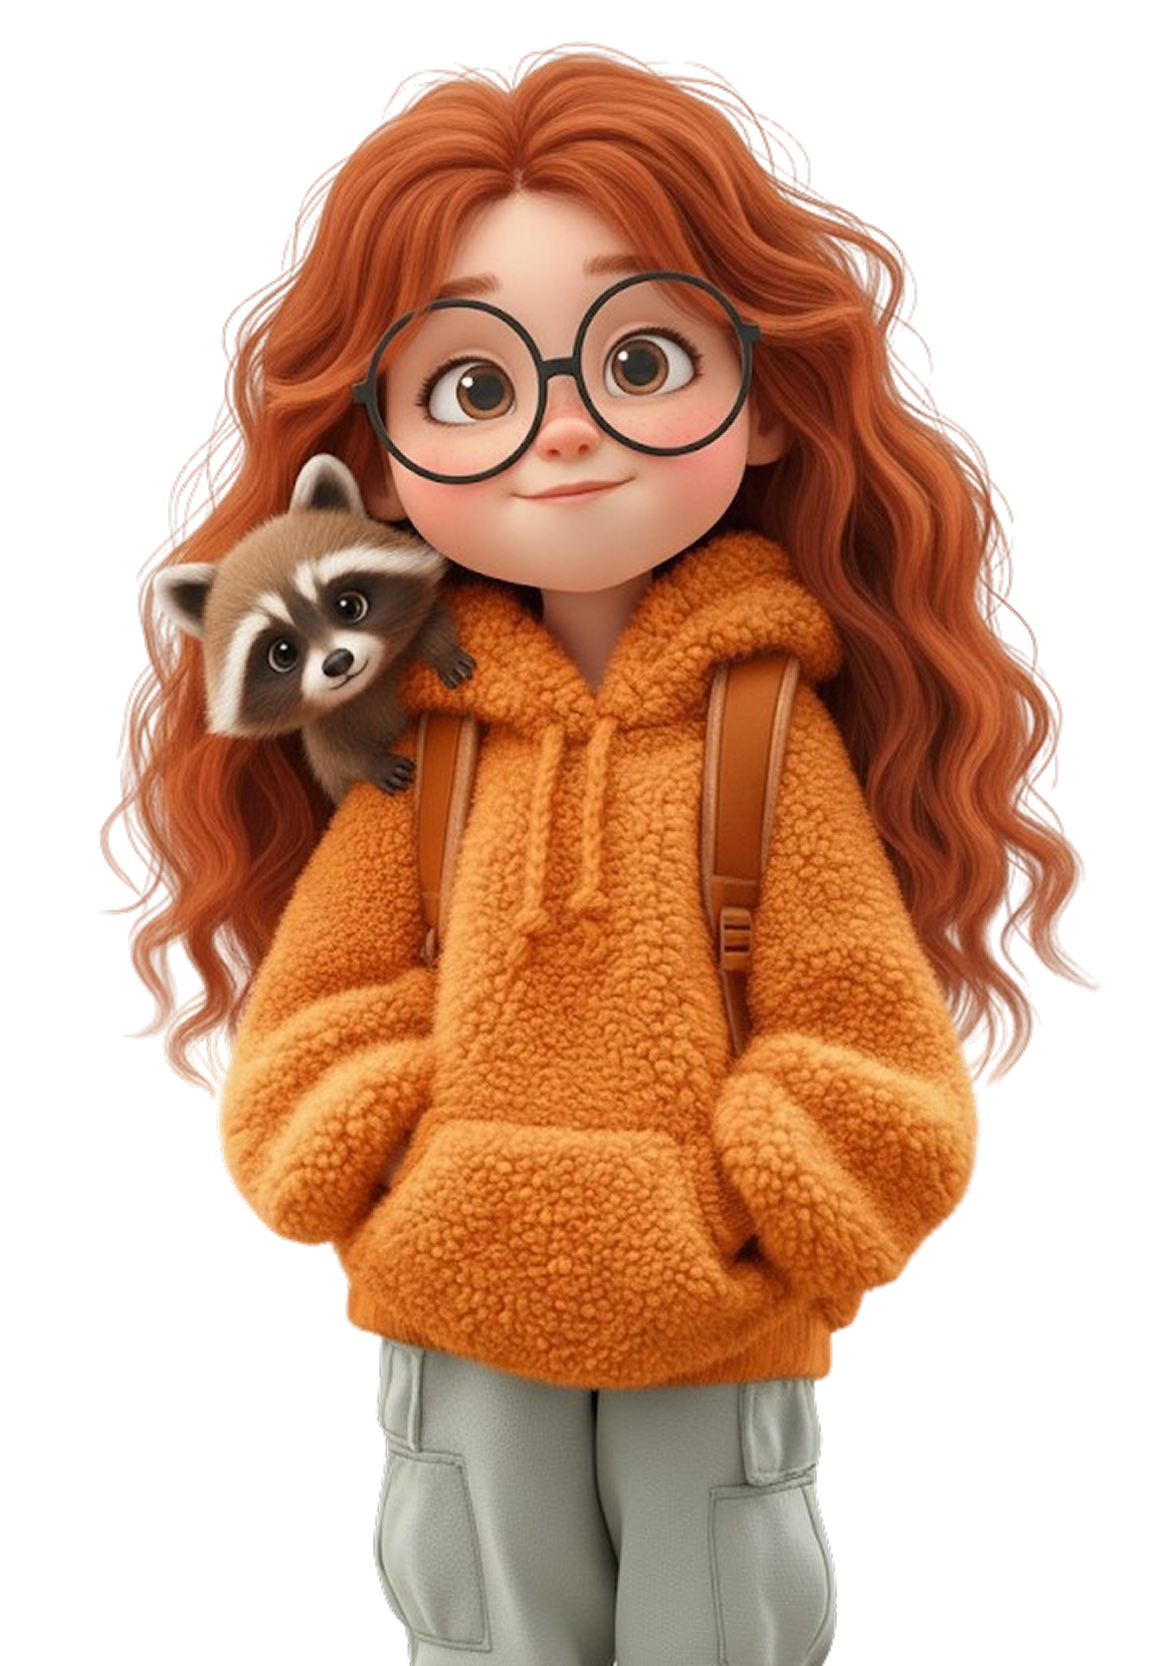
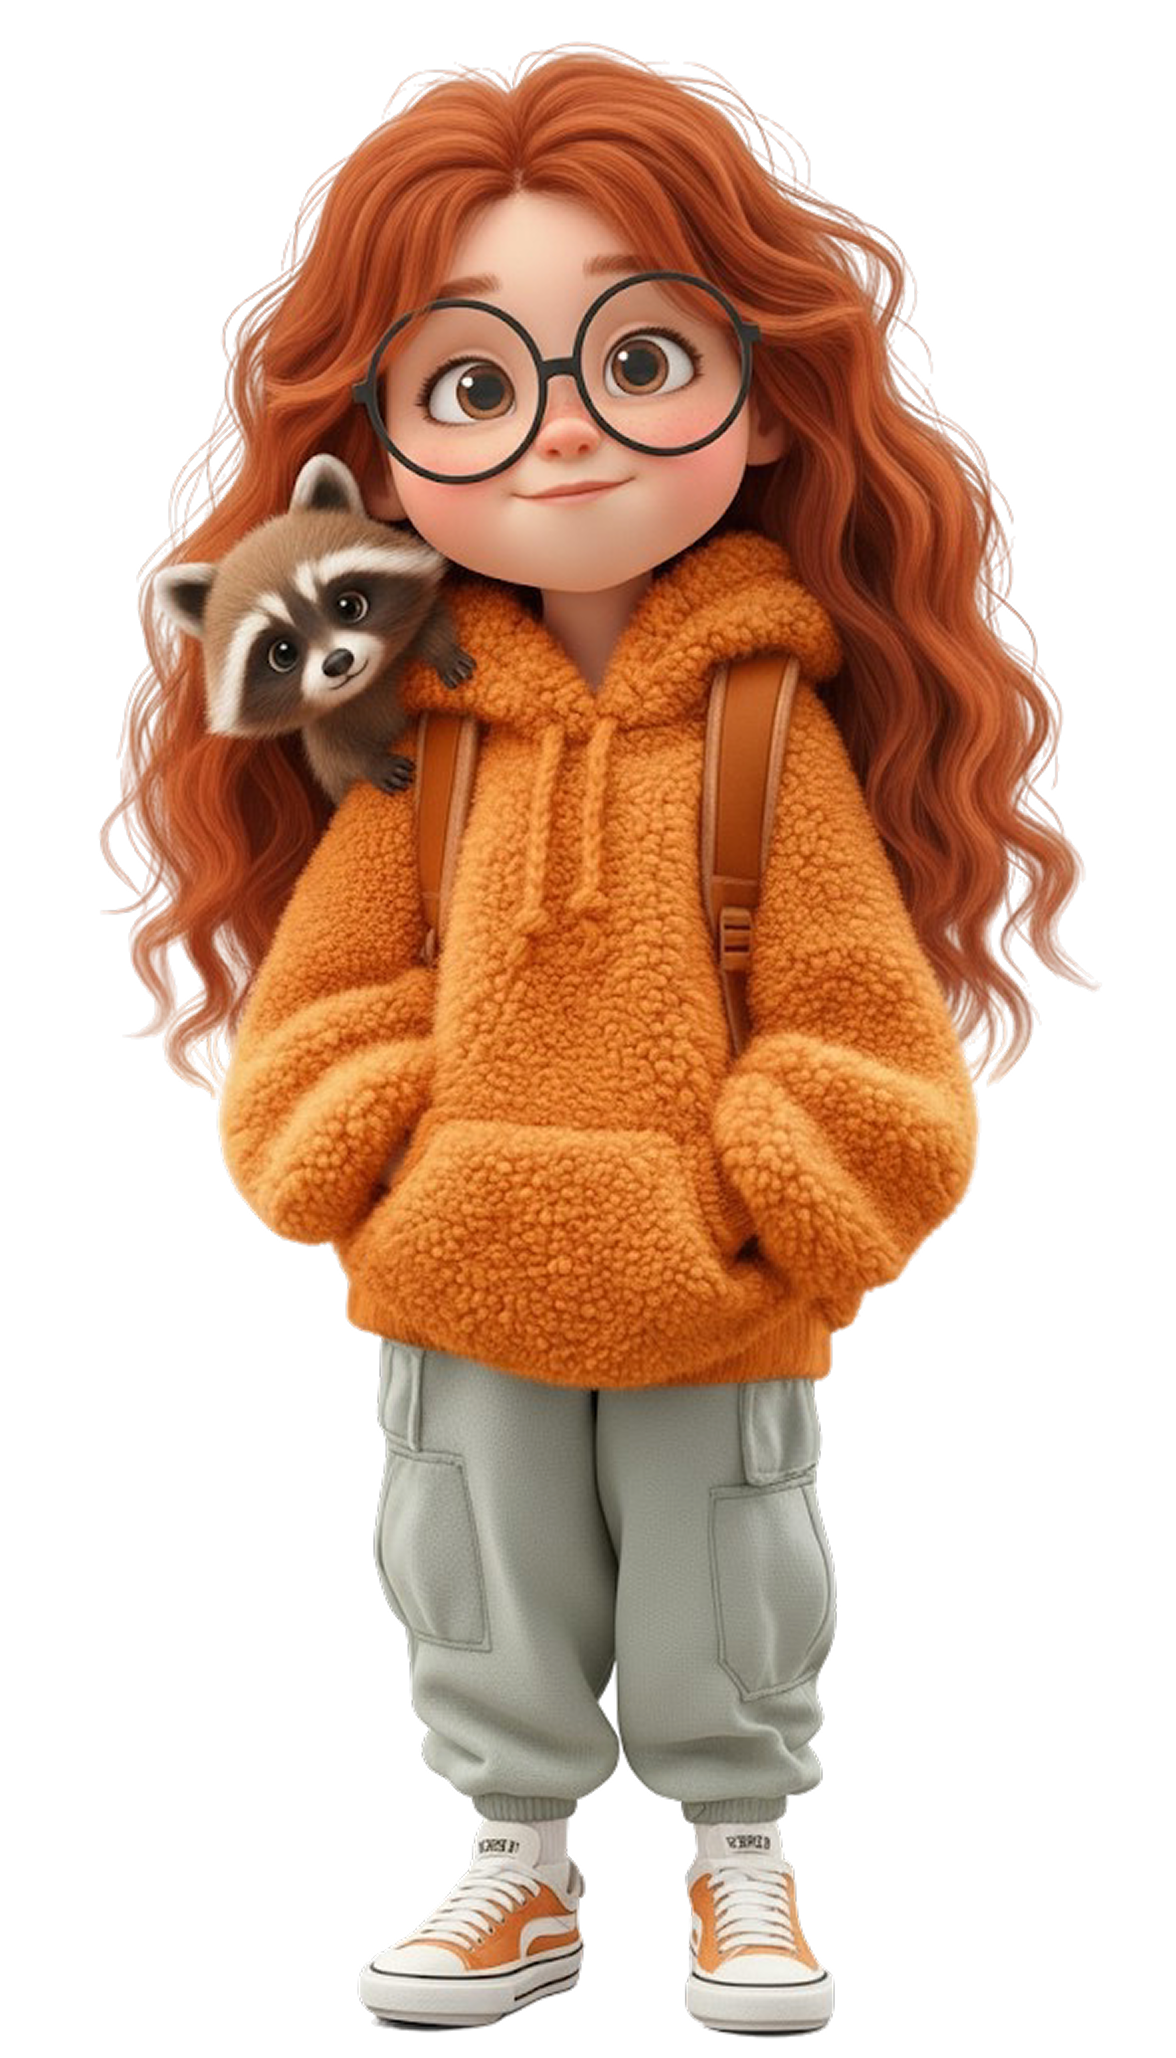
end JourneyCard

diff --git a/src/app/play-zone/components/journeyCard/JourneyCard.tsx b/src/app/play-zone/components/journeyCard/JourneyCard.tsx
@@ -5,8 +5,9 @@ import LastAchievement from "../lastAchievement/LastAchievement";
 
 import LevelInfo from "../levelInfo/LevelInfo";
 
-import achievementImage from "@images/home/achievement.png";
+import achievementImage from "@images/home/achievement.svg?url";
 import totalScoreLineUrl from "@images/home/total.svg?url";
+import girlImage from "@images/home/girl.png";
 
 import styles from "./journeyCard.module.scss";
 
@@ -14,7 +15,7 @@ export default function JourneyCard() {
   return (
     <div className={styles.journeyCard}>
       <div className={styles.achievement}>
-        <Image src={achievementImage} alt="achievement" width={100} height={100} style={{ width: "100%", height: "auto" }} />
+        <Image src={achievementImage} alt="achievement" width={100} height={100} style={{ width: "100%", height: "auto" }} unoptimized />
       </div>
       <LevelInfo level={3} currentScore={364} maxScore={364 + 364} />
       <div className={styles.totalScore}>
@@ -30,6 +31,9 @@ export default function JourneyCard() {
         <h4 className={cn("title-h4", styles.totalScoreTitle)}>1758</h4>
       </div>
       <LastAchievement />
+      <div className={styles.girl}>
+        <Image src={girlImage} alt="girl" width={100} height={100} style={{ width: "100%", height: "auto" }} unoptimized />
+      </div>
     </div>
   );
 }

diff --git a/src/app/play-zone/components/journeyCard/journeyCard.module.scss b/src/app/play-zone/components/journeyCard/journeyCard.module.scss
@@ -6,6 +6,7 @@
   border-radius: 2.25rem;
   background: linear-gradient(103deg, #746add -10.44%, #9e8ee0 16.05%, #dcc2e4 54.74%, #fae3c6 90.74%);
   padding: 1.12rem 2.5rem 2.5rem;
+  position: relative;
 }
 
 .achievement {
@@ -27,4 +28,14 @@
 
 .totalScoreTitle {
   color: $white;
+  margin-top: 0.2rem;
+}
+
+.girl {
+  position: absolute;
+  right: -17%;
+  top: -9%;
+  max-width: 36.75rem;
+  width: 100%;
+  pointer-events: none;
 }

diff --git a/src/app/play-zone/page.module.scss b/src/app/play-zone/page.module.scss
@@ -1,6 +1,15 @@
+.page {
+  min-height: 100dvh;
+  overflow: hidden;
+  display: flex;
+}
+
 .container {
+  height: 100%;
   padding-top: 8.94rem;
+  padding-bottom: 4.44rem;
   display: flex;
   justify-content: space-between;
+  align-items: center;
   gap: 2.5rem;
 }

diff --git a/src/app/play-zone/components/lastAchievement/lastAchievement.module.scss b/src/app/play-zone/components/lastAchievement/lastAchievement.module.scss
@@ -5,7 +5,9 @@
   align-items: stretch;
   max-width: 29.875rem;
   width: 100%;
-  margin-top: 2.88rem;
+  margin-top: 3rem;
+  position: relative;
+  z-index: 2;
 }
 
 .videoWrapper {

diff --git a/src/styles/globals.scss b/src/styles/globals.scss
@@ -36,7 +36,7 @@ a {
   font-family: $font-family-secondary;
   font-size: 2.25rem;
   font-weight: 400;
-  line-height: 100%;
+  line-height: 2.25rem;
 }
 
 .title-h5 {
